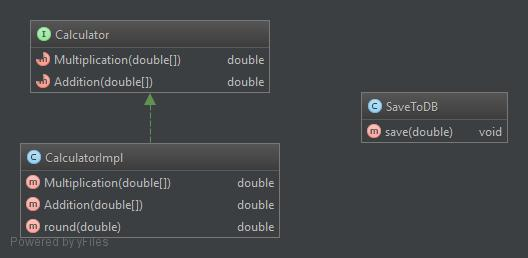
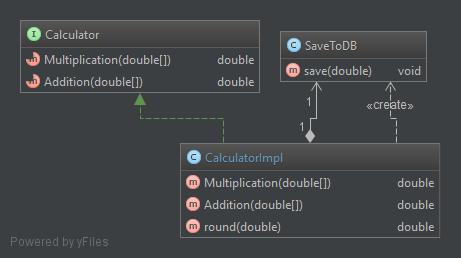
second commit

diff --git a/src/com/alexggg99/CalculatorImpl.java b/src/com/alexggg99/CalculatorImpl.java
@@ -8,8 +8,13 @@ import java.text.DecimalFormat;
  * Created by Alex on 21.11.2015.
  */
 
-@WebService(name = "calculator", targetNamespace = "alexggg99")
+@WebService(
+        portName = "CalculatorPort",
+        serviceName = "CalculatorService",
+        targetNamespace = "http://alexggg99.com/wsdl")
 public class CalculatorImpl implements Calculator {
+
+    SaveToDB saver = new SaveToDB();
 
     @Override
     @WebMethod
@@ -32,10 +37,10 @@ public class CalculatorImpl implements Calculator {
     }
 
     private double round(double input){
-        double time = 200.3456;
         DecimalFormat df = new DecimalFormat("#.##");
-        time = Double.valueOf(df.format(time));
-        return time;
+        input = Double.valueOf(df.format(input));
+        saver.save(input);
+        return input;
     }
 
 }
